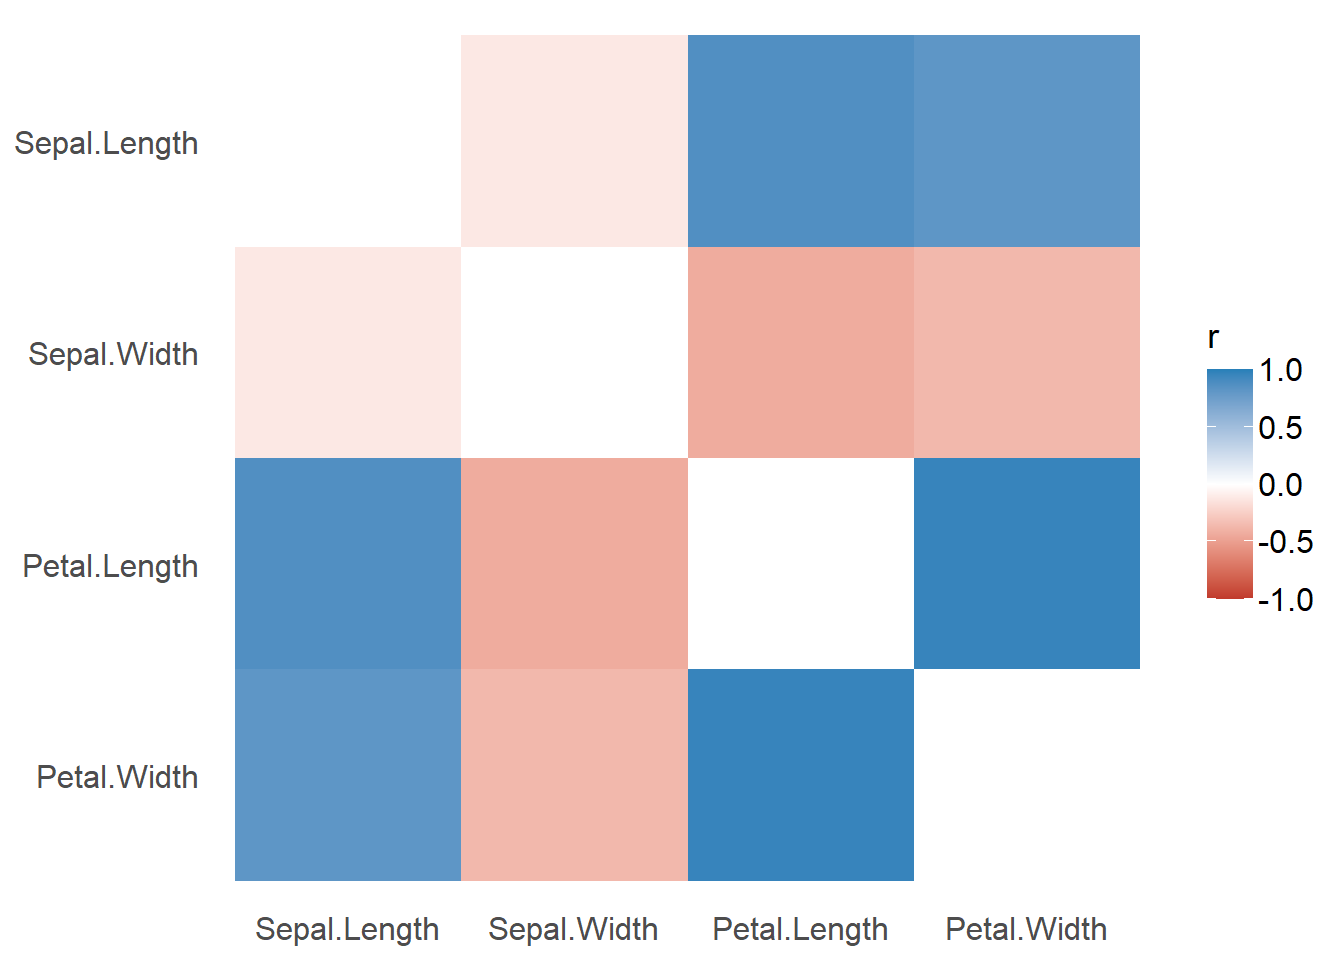
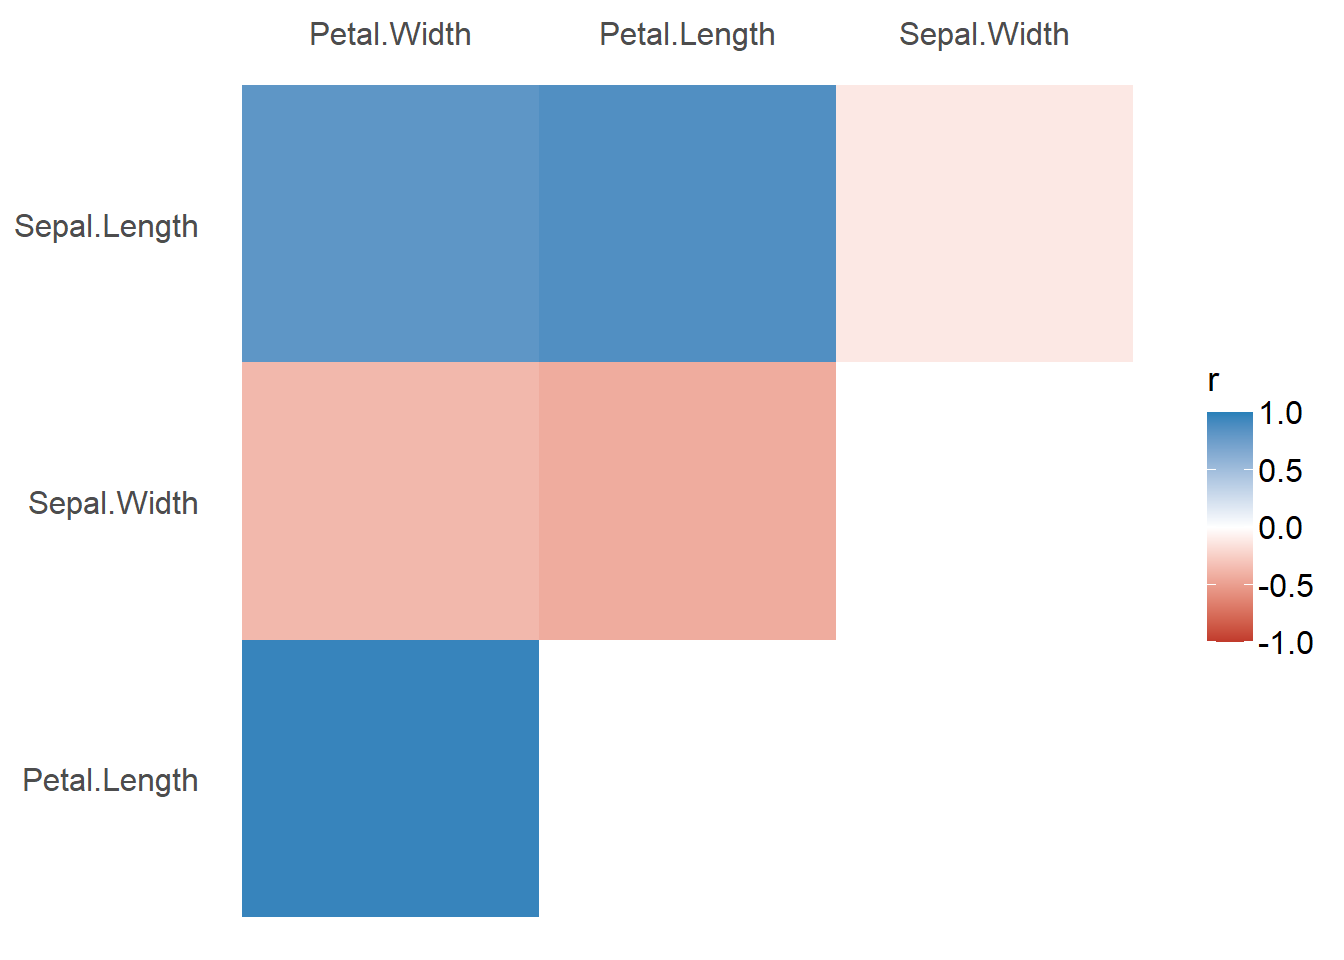
update website

diff --git a/docs/articles/correlation.html b/docs/articles/correlation.html
@@ -126,7 +126,7 @@
 <h2 class="hasAnchor">
 <a href="#correlation-matrix" class="anchor"></a>Correlation Matrix</h2>
 <p><em>(<a href="https://easystats.github.io/correlation/reference/correlation.html">related function documentation</a>)</em></p>
-<p>The default output for <code><a href="https://rdrr.io/pkg/correlation/man/correlation.html">correlation()</a></code> is a detailed overview including test statistic, p-values and confidence intervals. A shorter summary in matrix-layout can be obtained by using <code><a href="https://rdrr.io/r/base/summary.html">summary()</a></code> or <code><a href="https://rdrr.io/r/base/table.html">as.table()</a></code>.</p>
+<p>The default output for <code><a href="https://rdrr.io/pkg/correlation/man/correlation.html">correlation()</a></code> is a detailed overview including test statistic, p-values and confidence intervals. A shorter summary in matrix-layout can be obtained by using <code><a href="https://rdrr.io/r/base/summary.html">summary()</a></code>.</p>
 <div class="sourceCode" id="cb2"><html><body><pre class="r"><span class="no">result</span> <span class="kw">&lt;-</span> <span class="fu"><a href="https://rdrr.io/pkg/correlation/man/correlation.html">correlation</a></span>(<span class="no">iris</span>)
 
 <span class="no">result</span>
@@ -139,26 +139,38 @@
 <span class="co">#&gt; Sepal.Width  |  Petal.Width | -0.37 | [-0.50, -0.22] | -4.79 | 148 | &lt; .001 | Pearson |   150</span>
 <span class="co">#&gt; Petal.Length |  Petal.Width |  0.96 | [ 0.95,  0.97] | 43.39 | 148 | &lt; .001 | Pearson |   150</span>
 
-<span class="fu"><a href="https://rdrr.io/r/base/table.html">as.table</a></span>(<span class="no">result</span>)
+<span class="fu"><a href="https://rdrr.io/r/base/summary.html">summary</a></span>(<span class="no">result</span>)
+<span class="co">#&gt; Parameter    | Petal.Width | Petal.Length | Sepal.Width</span>
+<span class="co">#&gt; -------------------------------------------------------</span>
+<span class="co">#&gt; Sepal.Length |     0.82*** |      0.87*** |       -0.12</span>
+<span class="co">#&gt; Sepal.Width  |    -0.37*** |     -0.43*** |            </span>
+<span class="co">#&gt; Petal.Length |     0.96*** |              |</span></pre></body></html></div>
+<p>The result from <code><a href="https://rdrr.io/r/base/summary.html">summary()</a></code> can be used to create a plot.</p>
+<div class="sourceCode" id="cb3"><html><body><pre class="r"><span class="no">s</span> <span class="kw">&lt;-</span> <span class="fu"><a href="https://rdrr.io/r/base/summary.html">summary</a></span>(<span class="no">result</span>)
+<span class="fu"><a href="https://rdrr.io/r/graphics/plot.html">plot</a></span>(<span class="no">s</span>)</pre></body></html></div>
+<p><img src="correlation_files/figure-html/unnamed-chunk-3-1.png" width="672"></p>
+<p>It is also possible to add correlation coefficients and p-values.</p>
+<div class="sourceCode" id="cb4"><html><body><pre class="r"><span class="fu"><a href="https://rdrr.io/r/graphics/plot.html">plot</a></span>(<span class="no">s</span>, <span class="kw">show_values</span> <span class="kw">=</span> <span class="fl">TRUE</span>, <span class="kw">show_p</span> <span class="kw">=</span> <span class="fl">TRUE</span>, <span class="kw">show_legend</span> <span class="kw">=</span> <span class="fl">FALSE</span>)</pre></body></html></div>
+<p><img src="correlation_files/figure-html/unnamed-chunk-4-1.png" width="672"></p>
+<p>And a “redundant” summary can be plotted as well:</p>
+<div class="sourceCode" id="cb5"><html><body><pre class="r"><span class="no">s</span> <span class="kw">&lt;-</span> <span class="fu"><a href="https://rdrr.io/r/base/summary.html">summary</a></span>(<span class="no">result</span>, <span class="kw">redundant</span> <span class="kw">=</span> <span class="fl">TRUE</span>)
+
+<span class="no">s</span>
 <span class="co">#&gt; Parameter    | Sepal.Length | Sepal.Width | Petal.Length | Petal.Width</span>
 <span class="co">#&gt; ----------------------------------------------------------------------</span>
 <span class="co">#&gt; Sepal.Length |      1.00*** |       -0.12 |      0.87*** |     0.82***</span>
 <span class="co">#&gt; Sepal.Width  |        -0.12 |     1.00*** |     -0.43*** |    -0.37***</span>
 <span class="co">#&gt; Petal.Length |      0.87*** |    -0.43*** |      1.00*** |     0.96***</span>
-<span class="co">#&gt; Petal.Width  |      0.82*** |    -0.37*** |      0.96*** |     1.00***</span></pre></body></html></div>
-<p>The result from <code><a href="https://rdrr.io/r/base/table.html">as.table()</a></code> can be used to create a plot.</p>
-<div class="sourceCode" id="cb3"><html><body><pre class="r"><span class="no">m</span> <span class="kw">&lt;-</span> <span class="fu"><a href="https://rdrr.io/r/base/table.html">as.table</a></span>(<span class="no">result</span>)
-<span class="fu"><a href="https://rdrr.io/r/graphics/plot.html">plot</a></span>(<span class="no">m</span>)</pre></body></html></div>
-<p><img src="correlation_files/figure-html/unnamed-chunk-3-1.png" width="672"></p>
-<p>It is also possible to add correlation coefficients and p-values.</p>
-<div class="sourceCode" id="cb4"><html><body><pre class="r"><span class="fu"><a href="https://rdrr.io/r/graphics/plot.html">plot</a></span>(<span class="no">m</span>, <span class="kw">show_values</span> <span class="kw">=</span> <span class="fl">TRUE</span>, <span class="kw">show_p</span> <span class="kw">=</span> <span class="fl">TRUE</span>, <span class="kw">show_legend</span> <span class="kw">=</span> <span class="fl">FALSE</span>)</pre></body></html></div>
-<p><img src="correlation_files/figure-html/unnamed-chunk-4-1.png" width="672"></p>
+<span class="co">#&gt; Petal.Width  |      0.82*** |    -0.37*** |      0.96*** |     1.00***</span>
+
+<span class="fu"><a href="https://rdrr.io/r/graphics/plot.html">plot</a></span>(<span class="no">s</span>)</pre></body></html></div>
+<p><img src="correlation_files/figure-html/unnamed-chunk-5-1.png" width="672"></p>
 </div>
 <div id="gaussian-graphical-models-ggms" class="section level2">
 <h2 class="hasAnchor">
 <a href="#gaussian-graphical-models-ggms" class="anchor"></a>Gaussian Graphical Models (GGMs)</h2>
 <p>To create a Gaussian Graphical Models plot, the library <em>ggraph</em> needs to be loaded first.</p>
-<div class="sourceCode" id="cb5"><html><body><pre class="r"><span class="fu"><a href="https://rdrr.io/r/base/library.html">library</a></span>(<span class="no">ggraph</span>)
+<div class="sourceCode" id="cb6"><html><body><pre class="r"><span class="fu"><a href="https://rdrr.io/r/base/library.html">library</a></span>(<span class="no">ggraph</span>)
 <span class="no">result</span> <span class="kw">&lt;-</span> <span class="fu"><a href="https://rdrr.io/pkg/correlation/man/correlation.html">correlation</a></span>(<span class="no">mtcars</span>, <span class="kw">partial</span> <span class="kw">=</span> <span class="fl">TRUE</span>)
 
 <span class="no">result</span>
@@ -221,7 +233,7 @@
 <span class="co">#&gt; gear       |       carb |  0.43 | [ 0.09,  0.68] |  2.59 | 30 | 0.727  | Pearson |    32</span>
 
 <span class="fu"><a href="https://rdrr.io/r/graphics/plot.html">plot</a></span>(<span class="no">result</span>)</pre></body></html></div>
-<p><img src="correlation_files/figure-html/unnamed-chunk-5-1.png" width="672"></p>
+<p><img src="correlation_files/figure-html/unnamed-chunk-6-1.png" width="672"></p>
 </div>
   </div>
 
